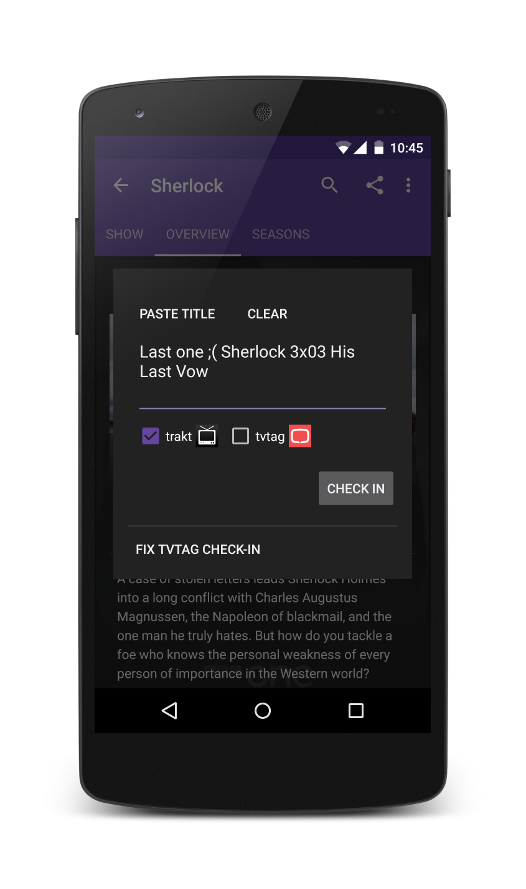
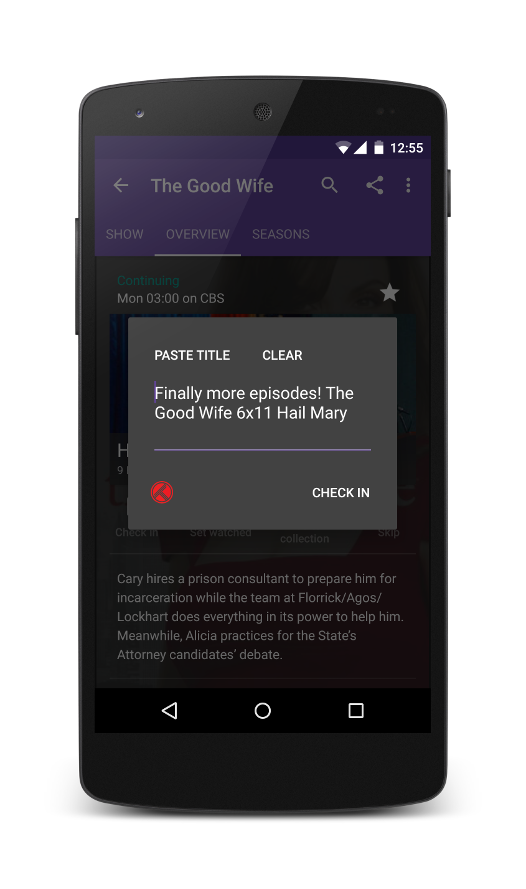
Remove tvtag mentions.
- Remove mentions from index, also update checkin image.
- Remove help page entries and mentions.

diff --git a/help.html b/help.html
@@ -31,7 +31,6 @@ title: Help
       <li><a href="#syncfail">Shows are not updated</a></li>
       <li><a href="#missing">Missing or incorrect information</a></li>
       <li><a href="#airtimes">Wrong air/release times</a></li>
-      <li><a href="#fixcheckin">tvtag check-ins do not work</a></li>
       <li><a href="#widget">The widget displays no data or is missing</a></li>
       <li><a href="#timezone">After changing the time zone times are incorrect</a></li>
     </ul>
@@ -61,7 +60,7 @@ title: Help
     <p>Each episode displays a button bar with four actions:</p>
     <p><img src="images/buttons.png" alt="Episode actions" width="345" height="65" class="img-responsive"></img></p>
     <ul>
-        <li><a href="#checkins"><b>Check in</b> via tvtag or trakt</a> if you are watching right now.</li>
+        <li><a href="#checkins"><b>Check in</b> via trakt</a> if you are watching right now.</li>
         <li><b>Set watched</b> if you have (just) watched this.</li>
         <li><b>Add to collection</b> if you purchased (DVD, Blu-Ray) or downloaded this.</li>
         <li><b>Skip</b> if you don't want to watch this episode right now. (Not synced with trakt!)</li>
@@ -72,11 +71,8 @@ title: Help
     <div class="spacer"></div>
   
     <h3>How check-ins work</h3>
-    <p>Check-in to let friends or the world know what you are watching right now. With SeriesGuide, depending on which service you use, check-ins behave a little differently.</p>
-    <dt>trakt</dt>
-    <dd>Checks into <strong>single episodes</strong>, so look out which episode is displayed when you check in.</dd>
-    <dt>tvtag</dt>
-    <dd>Checks into a <strong>show</strong>. You can use the <em>Paste title</em> button to include the watched episode title in your check in comment.</dd>
+    <p>Check-in to let friends or the world know what you are watching right now. Checking in requires you to <a href="#trakt">connect SeriesGuide with trakt</a>.</p>
+    <p>After the runtime of the episode or movie has passed, the episode or movie will be set watched on your trakt profile and in SeriesGuide.</p>
     
     <a name="remove"></a>
     <div class="spacer"></div>
@@ -172,7 +168,7 @@ title: Help
       <li>Touch <strong>Backup Shows</strong>.</li>
       <li>Once the backup is complete a new option appears offering to install SeriesGuide. Touch <strong>Install SeriesGuide</strong> and proceed with installation.</li>
     </ol>
-    <p>Once installed, in SeriesGuide use the <strong>Backup/Restore</strong> tool to <a href="#backup">restore the backup you created.</a> Reconnect any accounts (trakt, tvtag) and change settings to your liking.</p>
+    <p>Once installed, in SeriesGuide use the <strong>Backup/Restore</strong> tool to <a href="#backup">restore the backup you created.</a> Reconnect any accounts (trakt) and change settings to your liking.</p>
   
     <a name="fixes"></a>
     <div class="largespacer"></div>	
@@ -217,17 +213,6 @@ title: Help
     <p>If <strong>the release country is not known</strong>, SeriesGuide will assume the country to be the United States of America.</p>
     <p><span class="label label-info">Info</span> If your device is <strong>set to a US mainland time zone</strong>, SeriesGuide will automatically adjust the release time (e.g. one hour earlier in Central Time).</p>
     <p>If you believe a release time is incorrectly converted from the time displayed on <a href="https://trakt.tv">trakt</a>, please <a href="#contact">drop a message</a>.</p>
-  
-    <a name="fixcheckin"></a>
-    <div class="spacer"></div>
-  
-    <h3>tvtag check-ins do not work</h3>
-    <ol>
-      <li>From the check-in dialog, touch <b>Fix tvtag check-in</b>.</li>
-      <li>Select the show you want to check in to. If it is not listed, touch <b>Looking for something else?</b> and enter a search term, then press Enter or Search on your keyboard.</li>
-      <li>Select the show you want to check into and touch <strong>Save selection</strong>.</li>
-      <li>Touch <strong>Check-In</strong> to repeat the check-in.</li>	
-    </ol>
   
     <a name="widget"></a>
     <div class="spacer"></div>

diff --git a/index.html b/index.html
@@ -64,7 +64,7 @@ title: SeriesGuide for Android
   
   <div class="col-sm-6 col-md-3">
     <h2>Check In and Share</h2>
-    <p>Check in what you are watching on <a href="https://trakt.tv">trakt</a> or <a href="http://tvtag.com">tvtag</a>.</p><p>Or share an awesome episode with any supported Android app, including Google+, Facebook and Twitter.</p>
+    <p><a href="/help#checkins">Check in</a> what you are watching on <a href="https://trakt.tv">trakt</a>.</p><p>Or hit the share button to post an awesome episode to any Android app, including Google+, Facebook and Twitter.</p>
   </div>
   
   <div class="col-sm-6 col-md-3">
